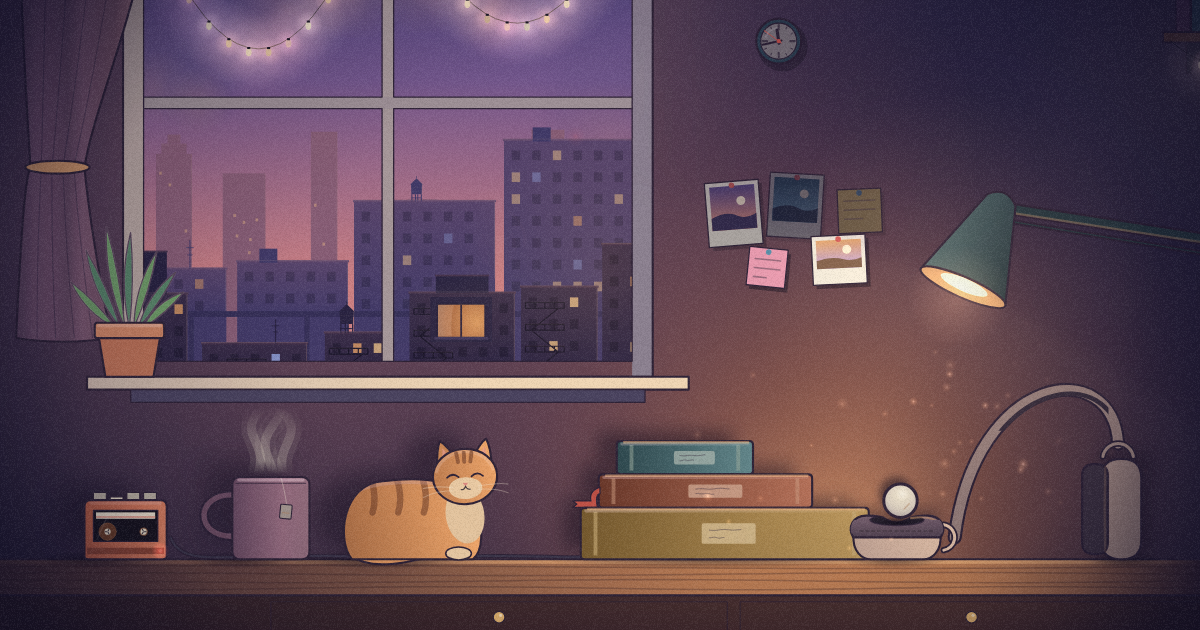
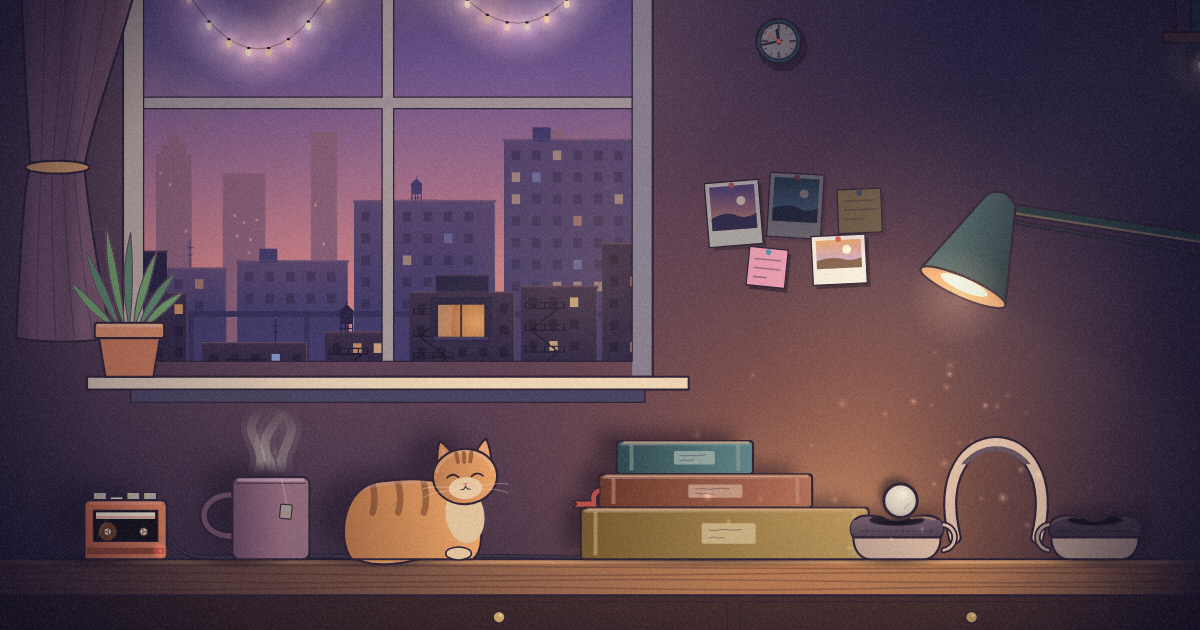
Soft Lamp: headphones at a glance, and the moth at rest
From a cold review: the headphones read as a kettle or a handbag. Now a pair
set down face up, both cups on their backs as twins, the band standing between
their yokes in a headband's round; the far cup's cushion gives on each snare.
The resting moth spreads its wings flat instead of folding them into a roof.

Changed region(s): [[0.7708, 0.6032, 0.9558, 0.9048]]

diff --git a/apps/rube/src/shows/versions/soft-lamp/lamp/scene.ts b/apps/rube/src/shows/versions/soft-lamp/lamp/scene.ts
@@ -4,7 +4,7 @@ import { BAND_TOP, BOOKS, CUP, DESK, FAR_CUP, GLASS, LAMP, MUG, POT, R, SILL, WA
 import { MUSIC_END, heldAt, smooth } from './music'
 import { LANDINGS, NODS, SHOULDER, ballAt, squashAt } from './route'
 import { cat } from './cat'
-import { bloom, clock, curtain, draughtAt, scrim, fairyGlowAt, fairyLights, grain, headlights, motes, notes, print, vignette } from './decor'
+import { bloom, clock, farPress, curtain, draughtAt, scrim, fairyGlowAt, fairyLights, grain, headlights, motes, notes, print, vignette } from './decor'
 import { ceiling, hanger, highShelf, underDesk } from './room'
 import { ballShadow, contacts, wallShadows } from './shade'
 import { camera } from './camera'
@@ -533,8 +533,7 @@ const PAD = '#2A2232'
 const PAD_LIT = '#7A6270'
 
 /** The near cup's cushion, from the side: a soft pad with rounded shoulders and a hollow between them. */
-function cushionPath(ctx: Ctx, top: number): void {
-  const x = CUP.x
+function cushionPath(ctx: Ctx, top: number, x = CUP.x): void {
   const w = CUP.halfW
   const s = SHOULDER
   const base = CUP.top + 0.17
@@ -552,26 +551,27 @@ function headphones(ctx: Ctx, lw: number, t: number): void {
   const lamp = lampAt(t)
   const warm = lampColor(t)
   const top = CUP.top + cushion(t)
-  const l = lightAt(CUP.x, -0.15) * lamp
   // Cream reads as cream even at the pool's edge: the room's light on it, then the lamp's.
   const shell = (k: number) => lit(SHELL, SHELL_LIT, Math.min(1, 0.32 * Math.max(0.4, lamp) + 0.75 * k))
-  // Each cup hangs in a yoke, a fork round its middle, and the band runs from yoke to yoke.
+  // A pair, set down face up: both cups on their backs, cushions up, the band standing between them from yoke to yoke.
+  // Each cup hangs in a yoke, a fork round its middle on the side toward the other.
   const w = CUP.halfW * 0.94
   const nearYoke = { x: CUP.x + w + 0.01, y: CUP.top + 0.17, r: 0.1 }
   const fx = FAR_CUP.x
-  const fw = FAR_CUP.halfW
-  const fh = FAR_CUP.h
-  const farYoke = { x: fx + 0.02, y: -fh, r: 0.12 }
+  const farTop = -FAR_CUP.h + farPress(t)
+  const farYoke = { x: fx - w - 0.01, y: CUP.top + 0.17, r: 0.1 }
   const a = { x: nearYoke.x + nearYoke.r, y: nearYoke.y }
-  const b = { x: farYoke.x, y: farYoke.y - farYoke.r }
-  const c1 = { x: a.x + 0.16, y: BAND_TOP - 0.18 }
-  const c2 = { x: b.x - 0.04, y: BAND_TOP - 0.32 }
+  const b = { x: farYoke.x - farYoke.r, y: farYoke.y }
+  // A round arch, as a headband is: up from each yoke, over the top.
+  // (Its sides bow out a little past the yokes, clear of the ball as it nods.)
+  const c1 = { x: a.x - 0.24, y: BAND_TOP - 0.2 }
+  const c2 = { x: b.x + 0.24, y: BAND_TOP - 0.2 }
   const band = () => {
     ctx.beginPath()
     ctx.moveTo(a.x, a.y)
     ctx.bezierCurveTo(c1.x, c1.y, c2.x, c2.y, b.x, b.y)
   }
-  // The band: a cream arch, its padding a dark strip along its underside.
+  // The band: a cream arch, its padding a dark strip along its underside, and the sliders where it meets each yoke.
   const bl = lightAt((a.x + b.x) / 2, BAND_TOP, 0) * lamp
   band()
   ctx.lineWidth = 0.11
@@ -582,16 +582,33 @@ function headphones(ctx: Ctx, lw: number, t: number): void {
   ctx.strokeStyle = shell(bl * 0.8 + 0.1)
   ctx.stroke()
   ctx.save()
-  ctx.translate(0.025, 0.03)
   ctx.beginPath()
-  ctx.rect(a.x + 0.2, BAND_TOP - 1, b.x - a.x - 0.3, 1.25)
+  ctx.rect(a.x - 0.2, BAND_TOP - 1, b.x - a.x + 0.4, -BAND_TOP + 0.6 + CUP.top)
   ctx.clip()
-  band()
-  ctx.lineWidth = 0.035
+  // The padding, inside the arch's top.
+  const pad = () => {
+    ctx.beginPath()
+    const u0 = 0.22
+    const u1 = 0.78
+    const pt = (u: number) => {
+      const m = 1 - u
+      return {
+        x: m * m * m * a.x + 3 * m * m * u * c1.x + 3 * m * u * u * c2.x + u * u * u * b.x,
+        y: m * m * m * a.y + 3 * m * m * u * c1.y + 3 * m * u * u * c2.y + u * u * u * b.y,
+      }
+    }
+    for (let k = 0; k <= 20; k++) {
+      const q = pt(u0 + ((u1 - u0) * k) / 20)
+      if (k === 0) ctx.moveTo(q.x, q.y + 0.045)
+      else ctx.lineTo(q.x, q.y + 0.045)
+    }
+  }
+  pad()
+  ctx.lineWidth = 0.04
   ctx.strokeStyle = lit(PAD, PAD_LIT, bl * 0.8)
   ctx.stroke()
   ctx.restore()
-  // A yoke: a fork round the cup's middle, its arm out to the band.
+  // A yoke: a fork round the cup's middle, its arm up into the band.
   const yoke = (y: { x: number; y: number; r: number }, from: number, to: number, k: number) => {
     ctx.beginPath()
     ctx.arc(y.x, y.y, y.r, from, to)
@@ -602,84 +619,72 @@ function headphones(ctx: Ctx, lw: number, t: number): void {
     ctx.strokeStyle = shell(k)
     ctx.stroke()
   }
-  // The far cup, standing on its edge, its pad toward the near one: a rounded shell, the dark pad on its near face.
-  const fl = lightAt(fx - fw, -fh / 2) * lamp
-  roundRect(ctx, fx - fw * 0.55, -fh, fw * 1.55, fh, fw * 0.75)
-  const fg = ctx.createLinearGradient(fx - fw, 0, fx + fw, 0)
-  fg.addColorStop(0, shell(fl * 0.95 + 0.15))
-  fg.addColorStop(1, shell(fl * 0.45 + 0.05))
-  ctx.fillStyle = fg
-  ctx.fill()
-  stroke(ctx, lw)
-  roundRect(ctx, fx - fw - 0.06, -fh + 0.04, 0.2, fh - 0.08, 0.09)
-  ctx.fillStyle = lit(PAD, PAD_LIT, fl * 0.9)
-  ctx.fill()
-  stroke(ctx, lw)
-  // The lamp along its lit edge.
-  ctx.beginPath()
-  ctx.moveTo(fx - fw * 0.4, -fh + 0.06)
-  ctx.quadraticCurveTo(fx - fw * 0.55 + 0.02, -fh / 2, fx - fw * 0.4, -0.06)
-  ctx.lineWidth = 0.018
-  ctx.strokeStyle = rgba(warm, 0.6 * fl)
-  ctx.stroke()
-  yoke(farYoke, Math.PI * 1.05, Math.PI * 1.95, fl * 0.8 + 0.1)
-  // The near cup's shell, lying on its back: a shallow rounded bowl, its rim up.
-  ctx.beginPath()
-  ctx.moveTo(CUP.x - w, CUP.top + 0.15)
-  ctx.lineTo(CUP.x + w, CUP.top + 0.15)
-  ctx.bezierCurveTo(CUP.x + w + 0.01, -0.06, CUP.x + w * 0.8, 0, CUP.x + w * 0.6, 0)
-  ctx.lineTo(CUP.x - w * 0.6, 0)
-  ctx.bezierCurveTo(CUP.x - w * 0.8, 0, CUP.x - w - 0.01, -0.06, CUP.x - w, CUP.top + 0.15)
-  ctx.closePath()
-  const g = ctx.createLinearGradient(CUP.x - w, 0, CUP.x + w, 0)
-  g.addColorStop(0, shell(l * 0.5 + 0.08))
-  g.addColorStop(1, shell(l * 0.95 + 0.12))
-  ctx.fillStyle = g
-  ctx.fill()
-  stroke(ctx, lw)
-  // The lamp along its rim.
-  ctx.beginPath()
-  ctx.moveTo(CUP.x - w * 0.3, CUP.top + 0.175)
-  ctx.lineTo(CUP.x + w - 0.04, CUP.top + 0.175)
-  ctx.lineWidth = 0.014
-  ctx.strokeStyle = rgba(warm, 0.55 * l)
-  ctx.stroke()
+  // One cup on its back: a shallow rounded shell, rim up, the lamp along its rim, and its cushion.
+  const cup = (x: number, cTop: number, l: number, side: 1 | -1) => {
+    ctx.beginPath()
+    ctx.moveTo(x - w, CUP.top + 0.15)
+    ctx.lineTo(x + w, CUP.top + 0.15)
+    ctx.bezierCurveTo(x + w + 0.01, -0.06, x + w * 0.8, 0, x + w * 0.6, 0)
+    ctx.lineTo(x - w * 0.6, 0)
+    ctx.bezierCurveTo(x - w * 0.8, 0, x - w - 0.01, -0.06, x - w, CUP.top + 0.15)
+    ctx.closePath()
+    // Lit on the side toward the lamp.
+    const g = ctx.createLinearGradient(x - side * w, 0, x + side * w, 0)
+    g.addColorStop(0, shell(l * 0.5 + 0.08))
+    g.addColorStop(1, shell(l * 0.95 + 0.12))
+    ctx.fillStyle = g
+    ctx.fill()
+    stroke(ctx, lw)
+    ctx.beginPath()
+    ctx.moveTo(x - side * w * 0.3, CUP.top + 0.175)
+    ctx.lineTo(x + side * (w - 0.04), CUP.top + 0.175)
+    ctx.lineWidth = 0.014
+    ctx.strokeStyle = rgba(warm, 0.55 * l)
+    ctx.stroke()
+    cushionPath(ctx, cTop, x)
+    const pg = ctx.createLinearGradient(0, cTop, 0, CUP.top + 0.17)
+    pg.addColorStop(0, lit(PAD, PAD_LIT, l))
+    pg.addColorStop(1, lit(PAD, PAD_LIT, l * 0.5))
+    ctx.fillStyle = pg
+    ctx.fill()
+    stroke(ctx, lw)
+    // Its face, seen a little from above: the pad a ring round the darker speaker cloth; and the stitched seam.
+    ctx.save()
+    cushionPath(ctx, cTop, x)
+    ctx.clip()
+    {
+      ctx.beginPath()
+      ctx.ellipse(x, cTop + 0.035, w * 0.62, 0.042, 0, 0, Math.PI * 2)
+      ctx.fillStyle = lit('#120E18', '#2E2636', l * 0.6)
+      ctx.fill()
+      ctx.lineWidth = lw * 0.7
+      ctx.strokeStyle = rgba(INK, 0.7)
+      ctx.stroke()
+    }
+    ctx.setLineDash([0.025, 0.02])
+    ctx.beginPath()
+    ctx.moveTo(x - w + 0.05, CUP.top + 0.12)
+    ctx.lineTo(x + w - 0.05, CUP.top + 0.12)
+    ctx.lineWidth = lw * 0.5
+    ctx.strokeStyle = rgba('#000000', 0.35)
+    ctx.stroke()
+    ctx.restore()
+    // The lamp along the pad's shoulder toward it.
+    ctx.beginPath()
+    ctx.moveTo(x + side * SHOULDER * 0.5, cTop + 0.02)
+    ctx.quadraticCurveTo(x + side * (SHOULDER + 0.06), cTop - 0.005, x + side * (CUP.halfW - 0.02), cTop + 0.07)
+    ctx.lineWidth = 0.016
+    ctx.strokeStyle = rgba(warm, 0.45 * l)
+    ctx.stroke()
+  }
+  // The far cup: the near one's twin, its cushion pressed a little by each snare the music strikes.
+  const fl = lightAt(fx, -0.15) * lamp
+  cup(fx, farTop, fl, -1)
+  yoke(farYoke, Math.PI * 0.55, Math.PI * 1.45, fl * 0.8 + 0.1)
+  // The near cup, the ball's seat, its cushion pushed by the kick.
+  const l = lightAt(CUP.x, -0.15) * lamp
+  cup(CUP.x, top, l, 1)
   yoke(nearYoke, -Math.PI * 0.45, Math.PI * 0.45, l * 0.9 + 0.12)
-  // Its cushion, as pressed: the dark pad.
-  cushionPath(ctx, top)
-  const pg = ctx.createLinearGradient(0, top, 0, CUP.top + 0.17)
-  pg.addColorStop(0, lit(PAD, PAD_LIT, l))
-  pg.addColorStop(1, lit(PAD, PAD_LIT, l * 0.5))
-  ctx.fillStyle = pg
-  ctx.fill()
-  stroke(ctx, lw)
-  // Its face, seen a little from above: the pad a ring round the darker speaker cloth, the ball sitting in it.
-  ctx.save()
-  cushionPath(ctx, top)
-  ctx.clip()
-  ctx.beginPath()
-  ctx.ellipse(CUP.x, top + 0.035, w * 0.62, 0.042, 0, 0, Math.PI * 2)
-  ctx.fillStyle = lit('#120E18', '#2E2636', l * 0.6)
-  ctx.fill()
-  ctx.lineWidth = lw * 0.7
-  ctx.strokeStyle = rgba(INK, 0.7)
-  ctx.stroke()
-  // The pad's stitched seam.
-  ctx.setLineDash([0.025, 0.02])
-  ctx.beginPath()
-  ctx.moveTo(CUP.x - w + 0.05, CUP.top + 0.12)
-  ctx.lineTo(CUP.x + w - 0.05, CUP.top + 0.12)
-  ctx.lineWidth = lw * 0.5
-  ctx.strokeStyle = rgba('#000000', 0.35)
-  ctx.stroke()
-  ctx.restore()
-  // The lamp along the pad's far shoulder.
-  ctx.beginPath()
-  ctx.moveTo(CUP.x + SHOULDER * 0.5, top + 0.02)
-  ctx.quadraticCurveTo(CUP.x + SHOULDER + 0.06, top - 0.005, CUP.x + CUP.halfW - 0.02, top + 0.07)
-  ctx.lineWidth = 0.016
-  ctx.strokeStyle = rgba(warm, 0.45 * l)
-  ctx.stroke()
 }
 
 /**

diff --git a/apps/rube/src/shows/versions/soft-lamp/lamp/moth.ts b/apps/rube/src/shows/versions/soft-lamp/lamp/moth.ts
@@ -99,7 +99,7 @@ export function mothAt(t: number): { x: number; y: number; a: number; fly: numbe
 
 const WING_LIT = '#F6E6C4'
 
-/** The moth: a small soft body, and its wings, a pale blur flying, folded back into a little roof at rest. */
+/** The moth: a small soft body, and its wings, a pale blur flying, spread flat in a soft triangle at rest. */
 export function moth(ctx: Ctx, lw: number, t: number): void {
   const m = mothAt(t)
   if (m.a <= 0.01) return
@@ -126,22 +126,29 @@ export function moth(ctx: Ctx, lw: number, t: number): void {
       ctx.stroke()
     }
   } else {
-    // Settled: the wings laid back along the body, a small rounded roof, a darker band across them.
-    ctx.beginPath()
-    ctx.moveTo(0, -SPAN * 0.2)
-    ctx.quadraticCurveTo(SPAN * 0.32, SPAN * 0.05, SPAN * 0.2, SPAN * 0.32)
-    ctx.lineTo(-SPAN * 0.2, SPAN * 0.32)
-    ctx.quadraticCurveTo(-SPAN * 0.32, SPAN * 0.05, 0, -SPAN * 0.2)
-    ctx.fillStyle = wingColor
-    ctx.fill()
-    ctx.strokeStyle = rgba(INK, 0.85)
-    ctx.lineWidth = lw * 0.5
-    ctx.stroke()
-    ctx.beginPath()
-    ctx.moveTo(-SPAN * 0.2, SPAN * 0.14)
-    ctx.quadraticCurveTo(0, SPAN * 0.08, SPAN * 0.2, SPAN * 0.14)
-    ctx.strokeStyle = rgba('#5C4A3A', 0.5)
-    ctx.stroke()
+    // Settled, as a moth rests on a wall or a pane: its wings spread flat in a soft triangle either side of the body,
+    // their front edges swept back, a darker band across each and a small eyespot.
+    for (const side of [-1, 1]) {
+      ctx.beginPath()
+      ctx.moveTo(side * SPAN * 0.04, -SPAN * 0.1)
+      ctx.quadraticCurveTo(side * SPAN * 0.3, -SPAN * 0.16, side * SPAN * 0.5, SPAN * 0.02)
+      ctx.quadraticCurveTo(side * SPAN * 0.42, SPAN * 0.26, side * SPAN * 0.06, SPAN * 0.24)
+      ctx.closePath()
+      ctx.fillStyle = wingColor
+      ctx.fill()
+      ctx.strokeStyle = rgba(INK, 0.8)
+      ctx.lineWidth = lw * 0.5
+      ctx.stroke()
+      ctx.beginPath()
+      ctx.moveTo(side * SPAN * 0.1, SPAN * 0.02)
+      ctx.quadraticCurveTo(side * SPAN * 0.28, -SPAN * 0.02, side * SPAN * 0.42, SPAN * 0.09)
+      ctx.strokeStyle = rgba('#5C4A3A', 0.5)
+      ctx.stroke()
+      ctx.beginPath()
+      ctx.arc(side * SPAN * 0.28, SPAN * 0.1, SPAN * 0.035, 0, Math.PI * 2)
+      ctx.fillStyle = rgba('#5C4A3A', 0.55)
+      ctx.fill()
+    }
   }
   // The body, and two feathered antennae.
   ctx.beginPath()

diff --git a/apps/rube/src/shows/versions/soft-lamp/lamp/desk.ts b/apps/rube/src/shows/versions/soft-lamp/lamp/desk.ts
@@ -67,10 +67,10 @@ export const BOOKS: Book[] = [
 export const CUP = { x: 2.52, halfW: 0.36, top: -0.34, hollow: 0.06 }
 /** Where the ball rests in the cup (its middle). */
 export const IN_CUP = { x: CUP.x, y: CUP.top + CUP.hollow - R }
-/** The far cup, standing: its middle, half its thickness, and its height. */
-export const FAR_CUP = { x: 4.22, halfW: 0.2, h: 0.78 }
-/** The band's arch: how high its top is. */
-export const BAND_TOP = -1.28
+/** The far cup, the near one's twin, on its back too: its middle, half its width, and its height (the near cup's). */
+export const FAR_CUP = { x: 4.06, halfW: CUP.halfW, h: -CUP.top }
+/** The band's arch, standing between the cups' yokes: how high its top reaches (a headband's round, about). */
+export const BAND_TOP = -0.95
 
 /** The lamp: its base on the desk, its elbow, the head's hinge, and where the shade points. */
 export const LAMP = {

diff --git a/apps/rube/src/shows/versions/soft-lamp/lamp/decor.ts b/apps/rube/src/shows/versions/soft-lamp/lamp/decor.ts
@@ -617,6 +617,13 @@ const SNARES: { t: number; h: number }[] = (() => {
   return out.sort((a, b) => a.t - b.t)
 })()
 
+/** How far the far cup's cushion is pressed at `t` (cells): a small give on each snare, as hard as it was struck. */
+export function farPress(t: number): number {
+  let d = 0
+  for (const b of recent(SNARES, t)) d += b.h * 0.12 * Math.exp(-((b.s / 0.06) ** 2))
+  return d
+}
+
 /** Of `beats`, those in the last second and a half: how hard each pushes the air (cells), and how long ago. */
 function recent(beats: { t: number; h: number }[], t: number): { h: number; s: number }[] {
   const out: { h: number; s: number }[] = []

diff --git a/apps/rube/src/shows/versions/soft-lamp/SOFTLAMP.md b/apps/rube/src/shows/versions/soft-lamp/SOFTLAMP.md
@@ -1297,6 +1297,27 @@ reflection was a pale oval and a bun over a fading jumper, more a ghost than som
 210. **Fixed on the way.** The writing hand was first drawn below the glass's foot, where the clip took it; it is raised
      to just above it.
 
+### The seventy-sixth pass: a cold review, and headphones at a glance
+
+A seventh reviewer, with no context, looked at sixteen frames of both takes. Its notes were weighed against what the
+show means to do: the hand at the start (turning the lamp on), the mug gone at 19:40 (being refilled), the ball between
+steps, the clock (real time from 11:41) and the still take's drift are as intended; its first proposal (the person at
+the desk, seen from behind) would undo the show's point of view, whose hand is the person's. Taken:
+
+211. **Headphones that read at a glance.** It saw "a kettle or a handbag", the ball's seat "a soap dish" (as three
+     reviewers had before it). The far cup stood on its edge, the near one lay on its back: two different shapes joined
+     by a band. Now the pair is set down face up as headphones are, both cups on their backs, cushions up, twins, and
+     the band stands between their yokes in a headband's round, its padding along the inside of its top and its sides
+     bowing a little out, clear of the ball as it nods. Each cup is lit on the side toward the lamp. The far cup still
+     plays the snare: its cushion now gives a little on each one, as the near one does under the kick. Its place
+     (`FAR_CUP`) keeps it whole in the window's look and the room's.
+212. **The moth at rest** read as "a ghost or a bird" on the moonlit glass at the end: its wings were folded into a
+     small roof. Settled, it spreads them flat in a soft triangle, a darker band and an eyespot on each, as a moth on a
+     pane does.
+
+Not taken: the kitten "cropped in half" in the moving take (it is whole there, near the frame's edge); cast shadows
+(they are drawn; a lamp above a desk throws most of them onto the desk, out of sight).
+
 ## Judgment calls for Stephen
 
 - **The light.** How dark the room falls away from its lights is two colours (`ambientAt`, `lamp/light.ts`, the
